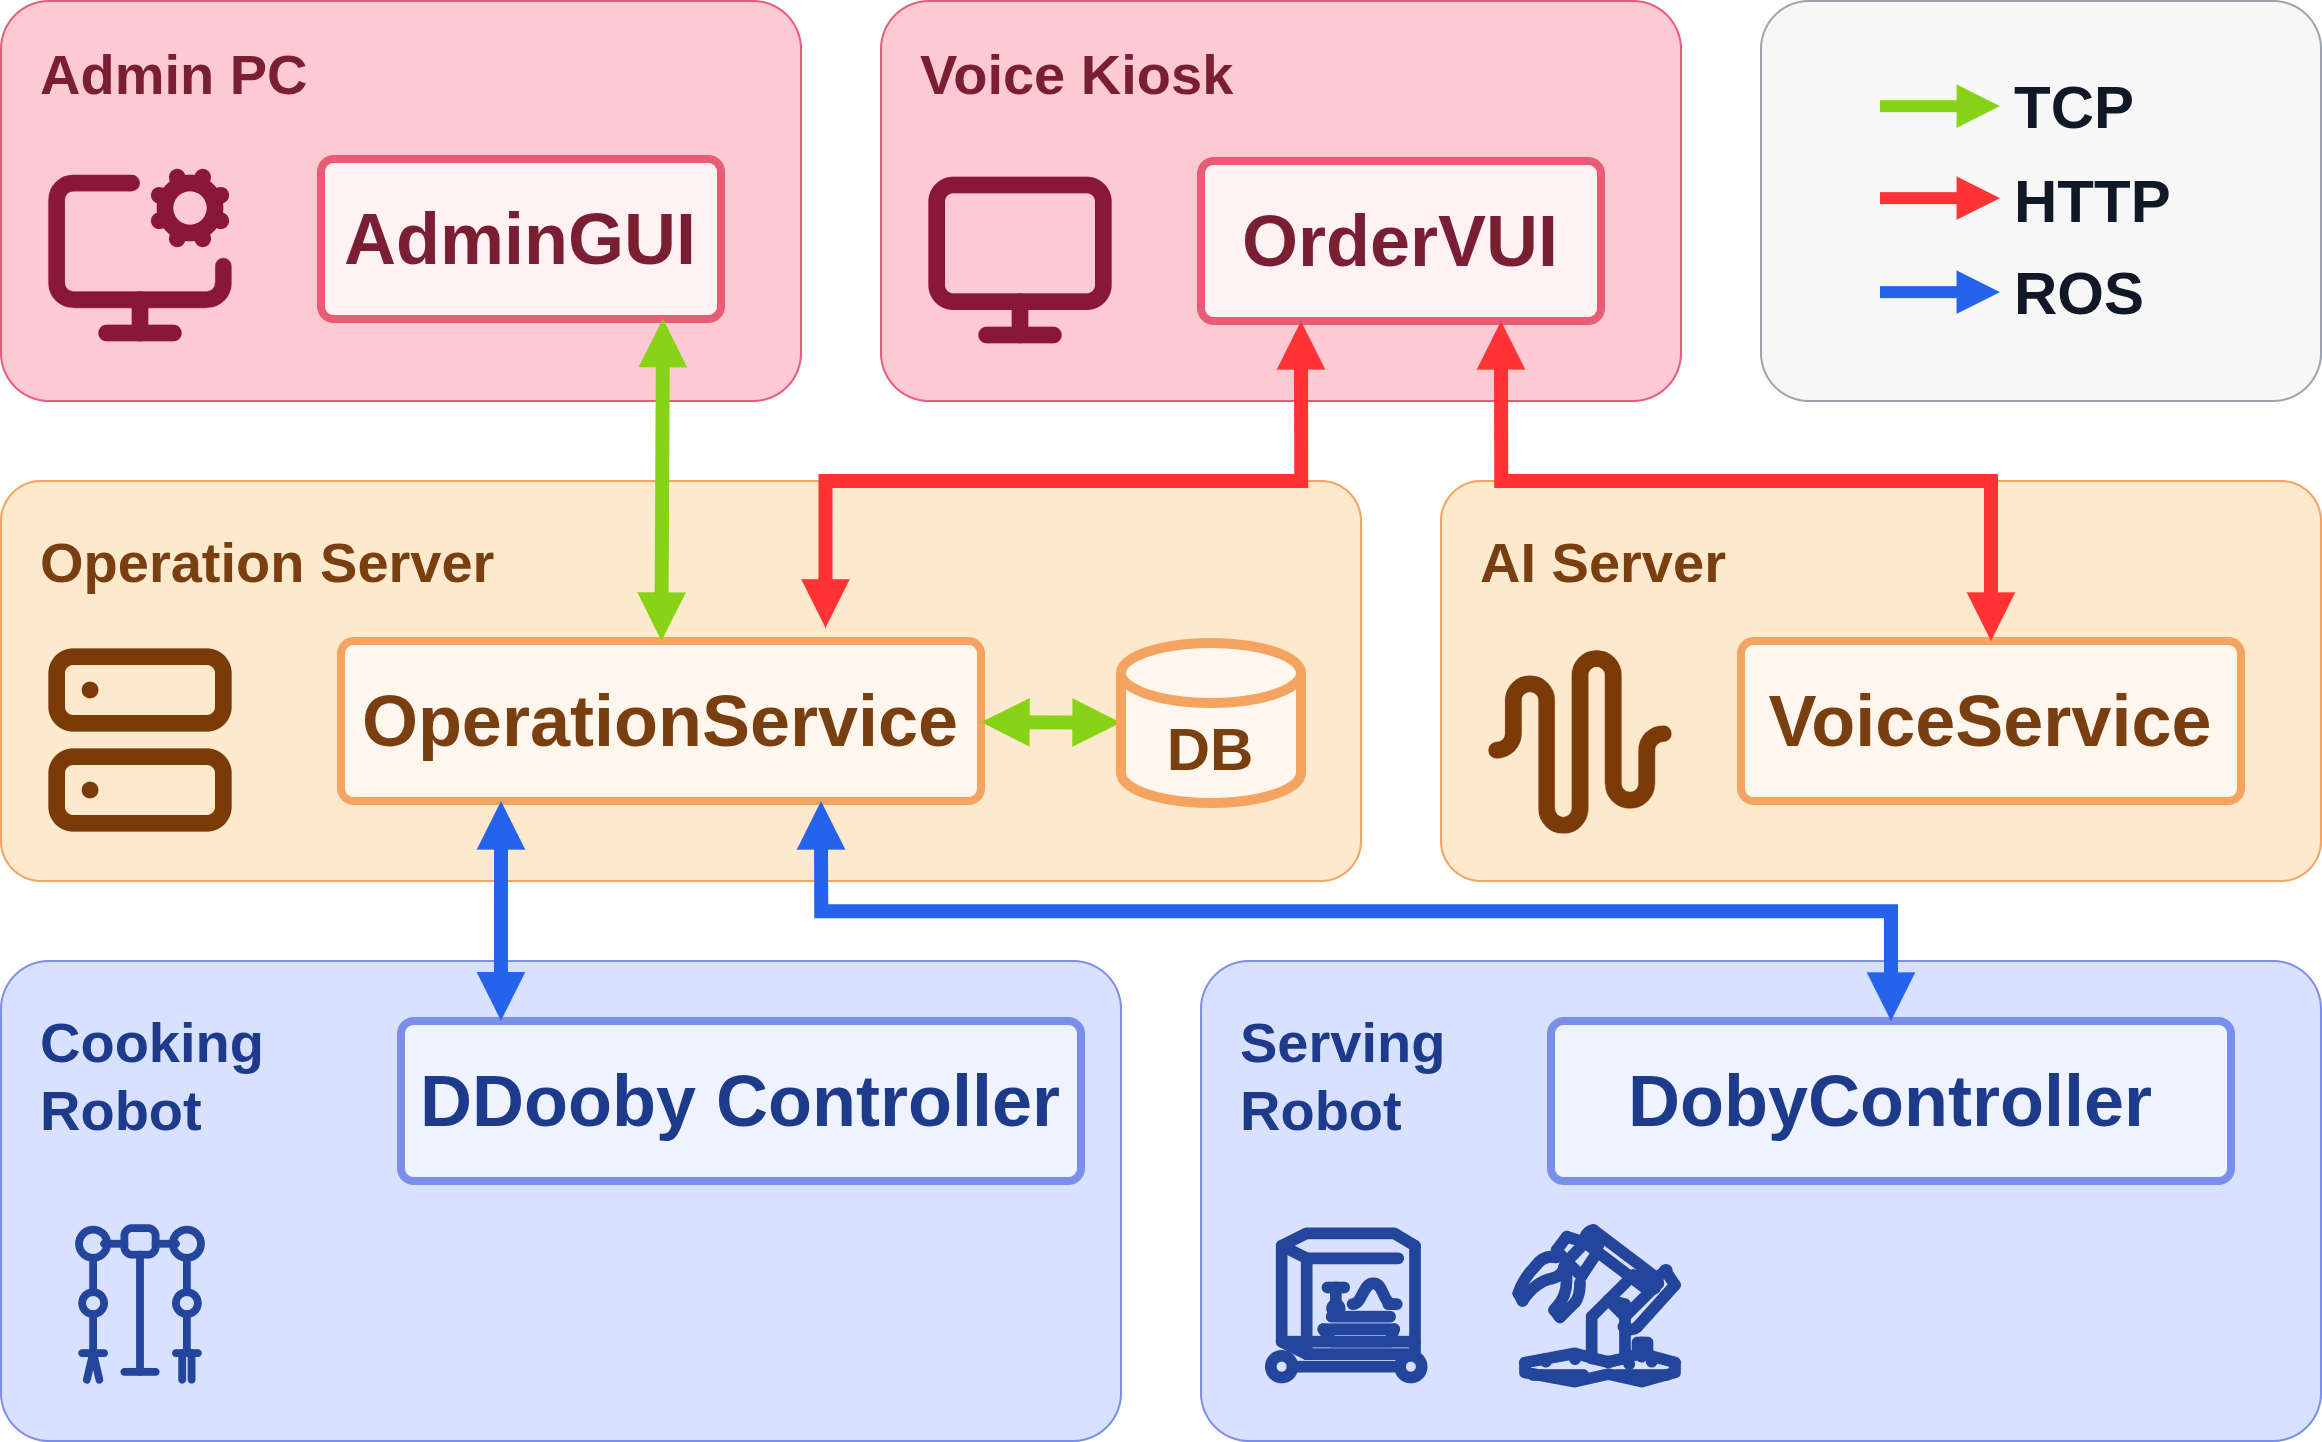
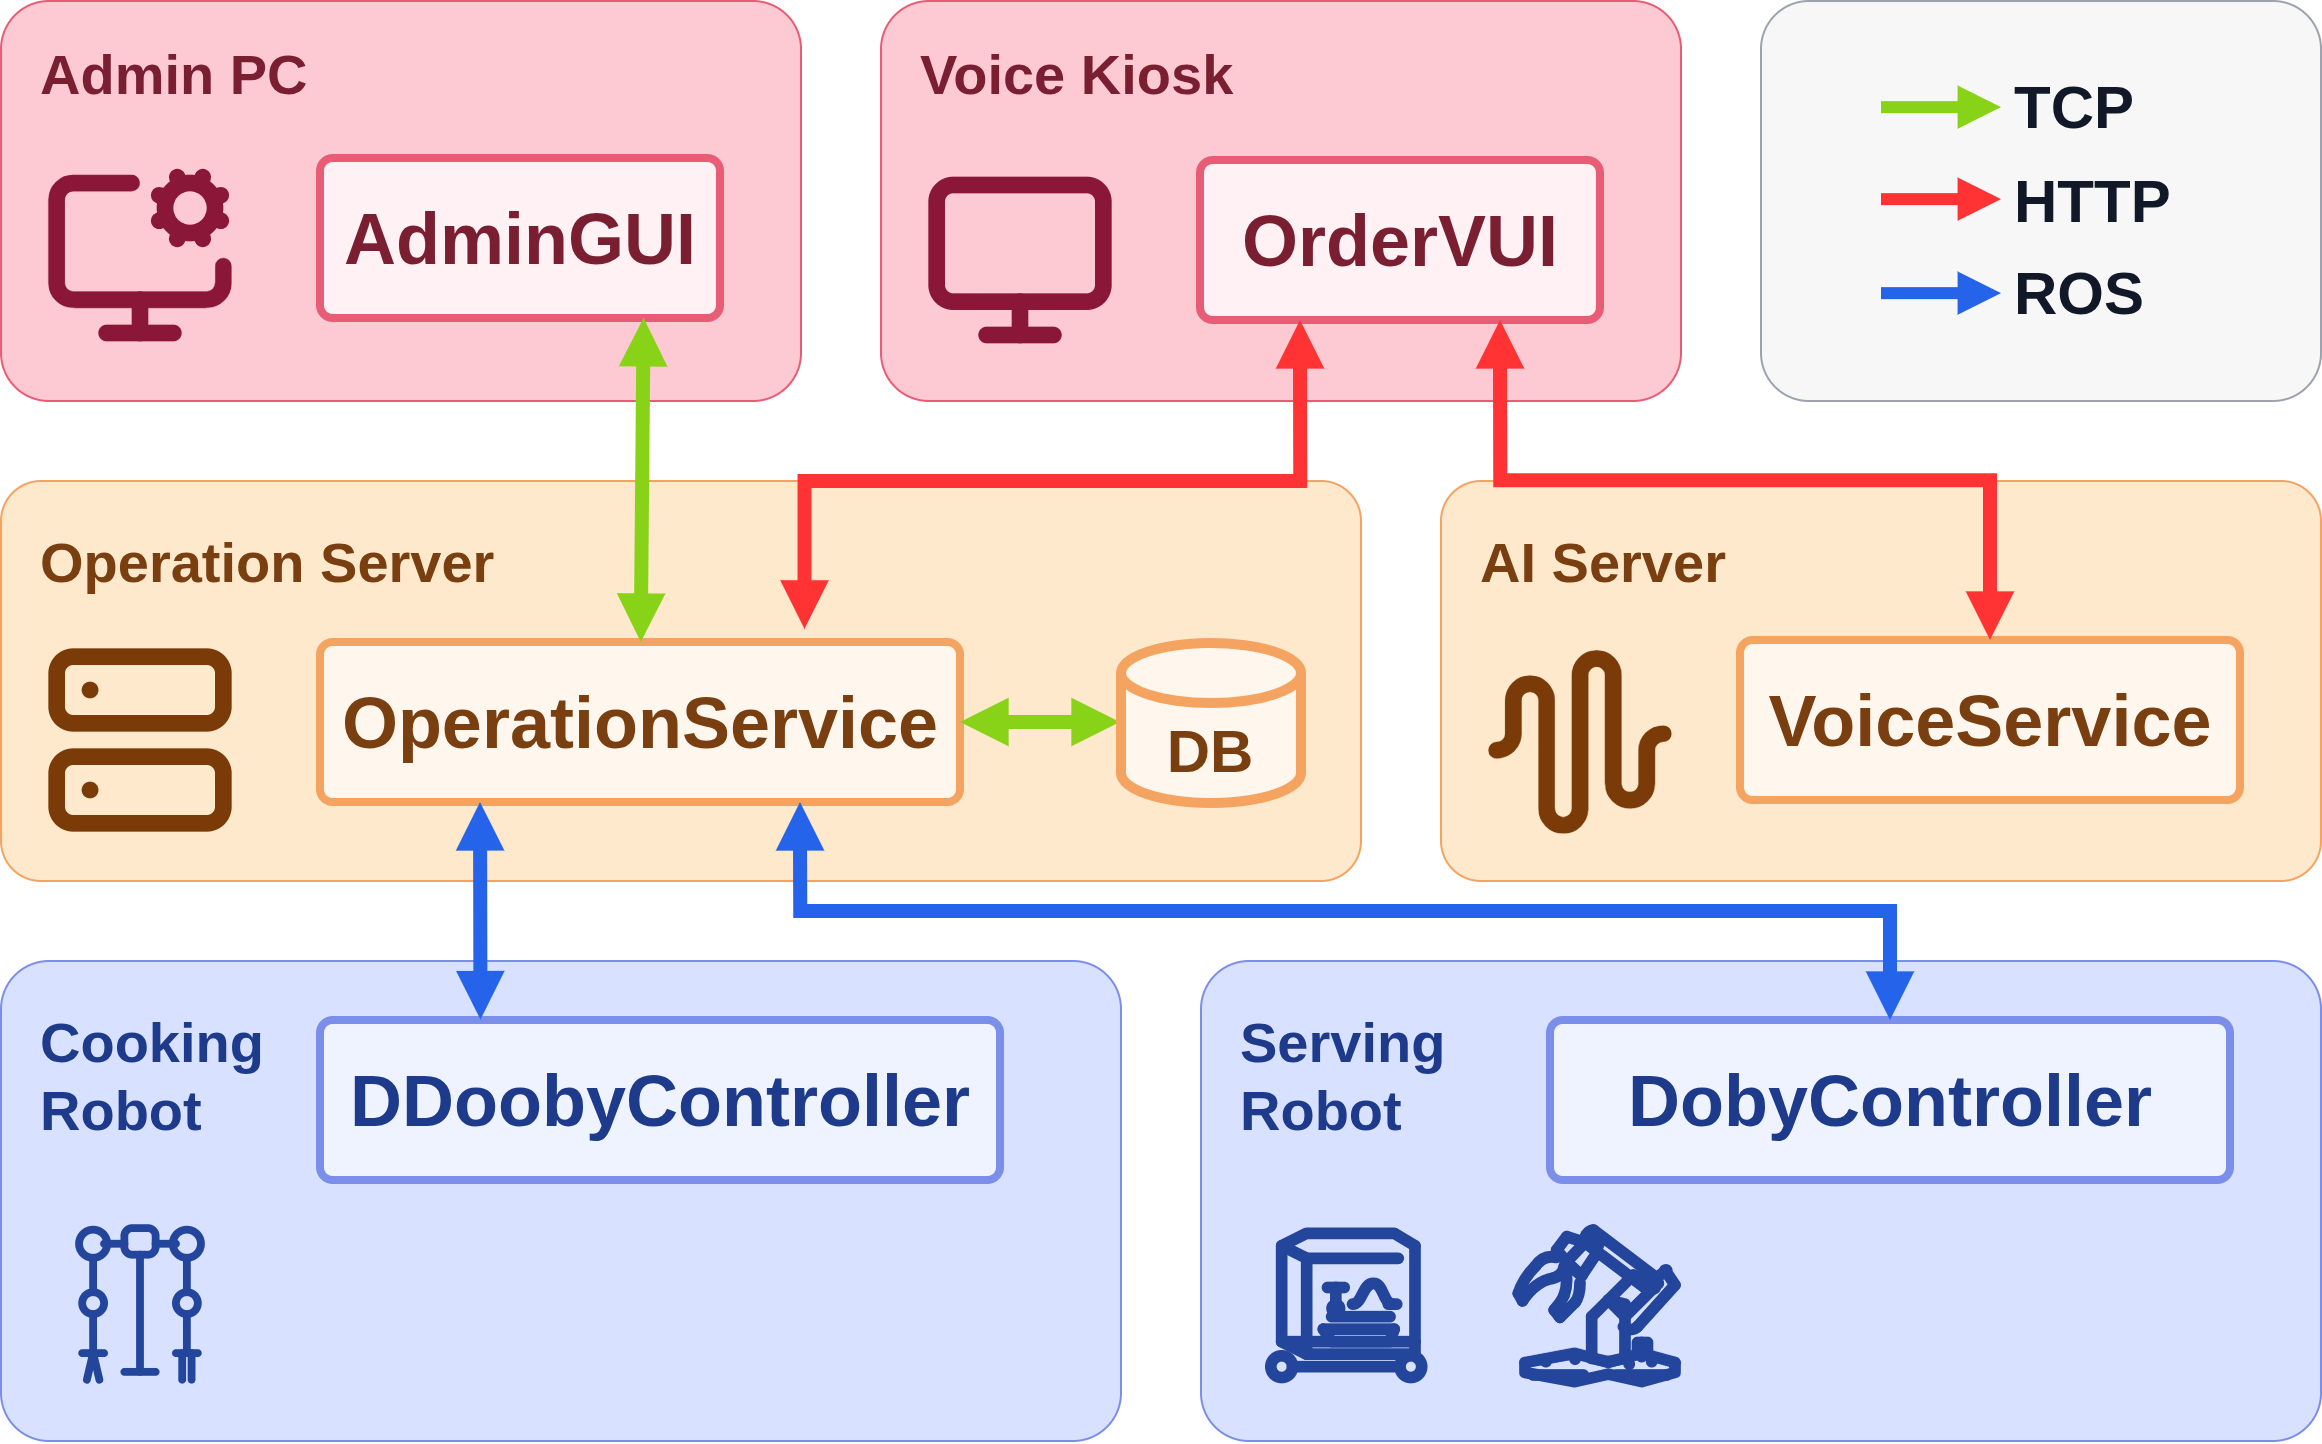
feat: 좌측 사이드바 피드백 반영

diff --git a/panel.html b/panel.html
@@ -314,6 +314,19 @@
       object-fit: contain;
     }
 
+    .overview-summary {
+      margin: 0 0 14px;
+      padding-left: 26px;
+      color: var(--dark);
+      font-size: 20px;
+      line-height: 1.4;
+      font-weight: 800;
+    }
+
+    .overview-summary li + li {
+      margin-top: 4px;
+    }
+
     .description-text,
     .feature-head p {
       font-size: var(--copy-size);
@@ -361,6 +374,7 @@
       display: grid;
       grid-template-columns: 1fr 1fr;
       gap: 18px;
+      align-items: stretch;
     }
 
     .robot-block {
@@ -369,12 +383,12 @@
       overflow: hidden;
       background: var(--paper);
       display: grid;
-      grid-template-rows: auto 180px auto;
+      grid-template-rows: 58px 306px minmax(116px, auto);
     }
 
     .robot-name {
       margin: 0;
-      padding: 14px 18px 12px;
+      padding: 0 18px;
       background: var(--surface);
       border-bottom: 1px solid var(--line);
       color: var(--text);
@@ -382,14 +396,46 @@
       line-height: 1.1;
       font-weight: 900;
       text-align: center;
+      display: flex;
+      align-items: center;
+      justify-content: center;
     }
 
     .robot-copy {
-      padding: 18px;
+      padding: 18px 20px;
+      display: flex;
+      flex-direction: column;
+      justify-content: center;
+      gap: 8px;
+    }
+
+    .robot-visual {
+      width: 100%;
+      height: 100%;
+      display: flex;
+      align-items: flex-end;
+      justify-content: center;
+      background: #ffffff;
+      overflow: hidden;
+      padding: 18px 18px 14px;
+    }
+
+    .robot-photo {
+      width: auto;
+      max-width: 86%;
+      height: 100%;
+      display: block;
+      object-fit: contain;
+      object-position: center bottom;
+      background: transparent;
+    }
+
+    .robot-photo.doby-photo {
+      height: 108%;
     }
 
     .robot-copy p {
-      margin: 0 0 12px;
+      margin: 0;
     }
 
     .robot-block li {
@@ -639,7 +685,6 @@
       color: var(--secondary);
     }
 
-    .robot-block > img,
     .visual-multi img {
       width: 100%;
       height: 100%;
@@ -806,6 +851,10 @@
       <aside class="left-sidebar">
         <section class="section">
           <h2 class="section-title">프로젝트 개요</h2>
+          <ul class="overview-summary">
+            <li>현장으로 이동하여 바로 제공하는 로봇 자동화 식음료 서비스</li>
+            <li>주문부터 제조, 서빙까지 연결한 이동형 케이터링 서비스</li>
+          </ul>
           <img class="overview-image" src="assets/project_overview.png" alt="MOCA 프로젝트 개요">
         </section>
 
@@ -819,8 +868,8 @@
           <div class="hardware-grid">
             <article class="robot-block">
               <h3 class="robot-name">도비</h3>
-              <div class="placeholder" aria-label="도비 로봇 사진 placeholder">
-                <strong>도비 로봇 사진</strong>
+              <div class="robot-visual">
+                <img class="robot-photo doby-photo" src="assets/doby.png" alt="도비 주행 로봇과 OMX 로봇팔">
               </div>
               <div class="robot-copy">
                 <p>주행 로봇 + OMX 로봇팔</p>
@@ -829,8 +878,8 @@
             </article>
             <article class="robot-block">
               <h3 class="robot-name">뚜비</h3>
-              <div class="placeholder" aria-label="뚜비 로봇 사진 placeholder">
-                <strong>뚜비 로봇 사진</strong>
+              <div class="robot-visual">
+                <img class="robot-photo" src="assets/ddooby.png" alt="뚜비 OpenArm 양팔 로봇">
               </div>
               <div class="robot-copy">
                 <p>OpenArm 양팔 로봇 + Depth 카메라</p>
@@ -842,7 +891,7 @@
 
         <section class="section">
           <h2 class="section-title secondary">기술 스택</h2>
-          <div class="tech-groups" aria-label="기능별 기술 스택">
+          <div class="tech-groups" aria-label="역할별 기술 스택">
             <article class="tech-group">
               <h3>환경</h3>
               <div class="tech-items">
@@ -853,14 +902,14 @@
               </div>
             </article>
             <article class="tech-group">
-              <h3>주문</h3>
+              <h3>UI</h3>
               <div class="tech-items">
                 <img class="tech-logo" src="assets/logo/pyqt6.png" alt="PyQt6">
                 <span class="tech-badge">HTML</span>
               </div>
             </article>
             <article class="tech-group">
-              <h3>제조</h3>
+              <h3>요리 로봇</h3>
               <div class="tech-items manufacturing-stack">
                 <img class="tech-logo wide" src="assets/logo/openarm.png" alt="OpenArm">
                 <img class="tech-logo" src="assets/logo/moveit.png" alt="MoveIt">
@@ -869,7 +918,7 @@
               </div>
             </article>
             <article class="tech-group">
-              <h3>서빙</h3>
+              <h3>서빙 로봇</h3>
               <div class="tech-items">
                 <img class="tech-logo wide" src="assets/logo/lerobot.png" alt="LeRobot">
                 <img class="tech-logo" src="assets/logo/nav2.png" alt="Nav2">